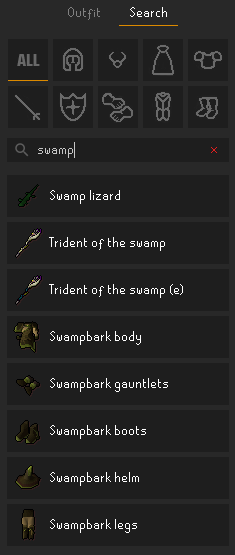
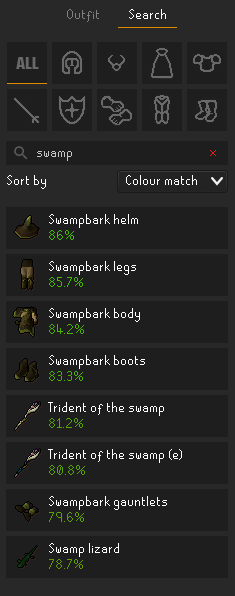
Update readme

diff --git a/README.md b/README.md
@@ -4,7 +4,7 @@ any other item in the game? This plugin was made for you. It allows anyone to pr
 plan out the perfect look quickly and efficiently.
 
 ## User guide
-All the UI lives in a dedicated side panel for now. If the plugin is on, you'll find it near the bottom of the list
+All the UI lives in a dedicated side panel. If the plugin is on, you'll find it near the bottom of the list
 (beneath notes). Look for the dress form:
  
 ![Panel icon](icon.png)
@@ -13,15 +13,17 @@ There are two tabs in this panel: outfit and search.
 
 "Outfit" shows everything you're wearing via the plugin and has a few controls at the top row:
 * Undo and redo last action (these are only enabled if you can perform them)
-* A randomizer (dice) button that randomly assigns items to all your unlocked slots
+* A randomizer (dice) button that randomly assigns items to all your unlocked slots. The randomizer has an 
+"intelligence" setting in the plugin config, which when set to anything other than `NONE`, will utilize the colour match
+algorithm to provide results.
 * Save and load buttons, which work with .txt files placed in the RuneLite folder, under `/outfits/`. You can open the
-outfit folder in your system file browser by right-clicking either save or load. Note that you can't save empty outfits,
+outfit folder in your system file browser by **right-clicking either save or load**. Note that you can't save empty outfits,
 and anything you're actually wearing in-game isn't saved.
-* Clear button, which undoes everything you're wearing with the plugin, apart from locked slots. If you want to erase
-everything *including* locks, there's a right-click option to force clear.
+* Clear button, which undoes everything you're wearing with the plugin, **including** locked slots. If you want to erase
+everything *except* locked slots, there's a right-click option to soft clear.
 
 You can "lock" individual slots with the lock icon next to the x button for that slot. This prevents that slot from 
-being cleared by anything (e.g., randomizing, loading a new outfit, clearing all). Clicking the lock again will unlock
+being cleared by most features (e.g., randomizing, loading a new outfit). Clicking the lock again will unlock
 it. The locking feature is designed to work with the randomizer: as you find pieces that work together, you can lock
 them and randomize the remaining slots.
 
@@ -31,6 +33,13 @@ The main feature of "search" is... what you expect. Leaving the search bar empty
 slot (except the "all" tab, where too many results would be displayed). The results will update as you type. Hovering
 over an item will show a preview of what it looks like on your character. When clicked, the item will update and will
 display as part of your outfit. If the item is already worn, clicking it again removes it.
+
+There are three sorting options: 
+* Release, which roughly orders results by release date (it actually just goes by item IDs; close enough)
+* Alphabetical, pretty self-explanatory
+* Colour match, which uses aggregated, area-weighted Euclidean colour distances of the "best-matching" colours for 
+that result compared to the colours of all the items currently worn (excluding the slot you're currently browsing). 
+With this option selected, you can also see the colour-coded percent match for that item.
 
 ![Search tab](search_tab.png)
 
@@ -59,3 +68,6 @@ items from search / randomize.
 
 If you notice some items don't render your head or arms correctly, or don't have the correct idle animation, please
 let me know by saving the outfit and uploading / pasting the text so I can mark that item ID appropriately.
+
+Feature suggestions, bug reports, and pull requests are all welcome. Please keep in mind that this plugin is intended
+to be a tool for discovery and planning, and features that extend beyond that will probably not be implemented.
